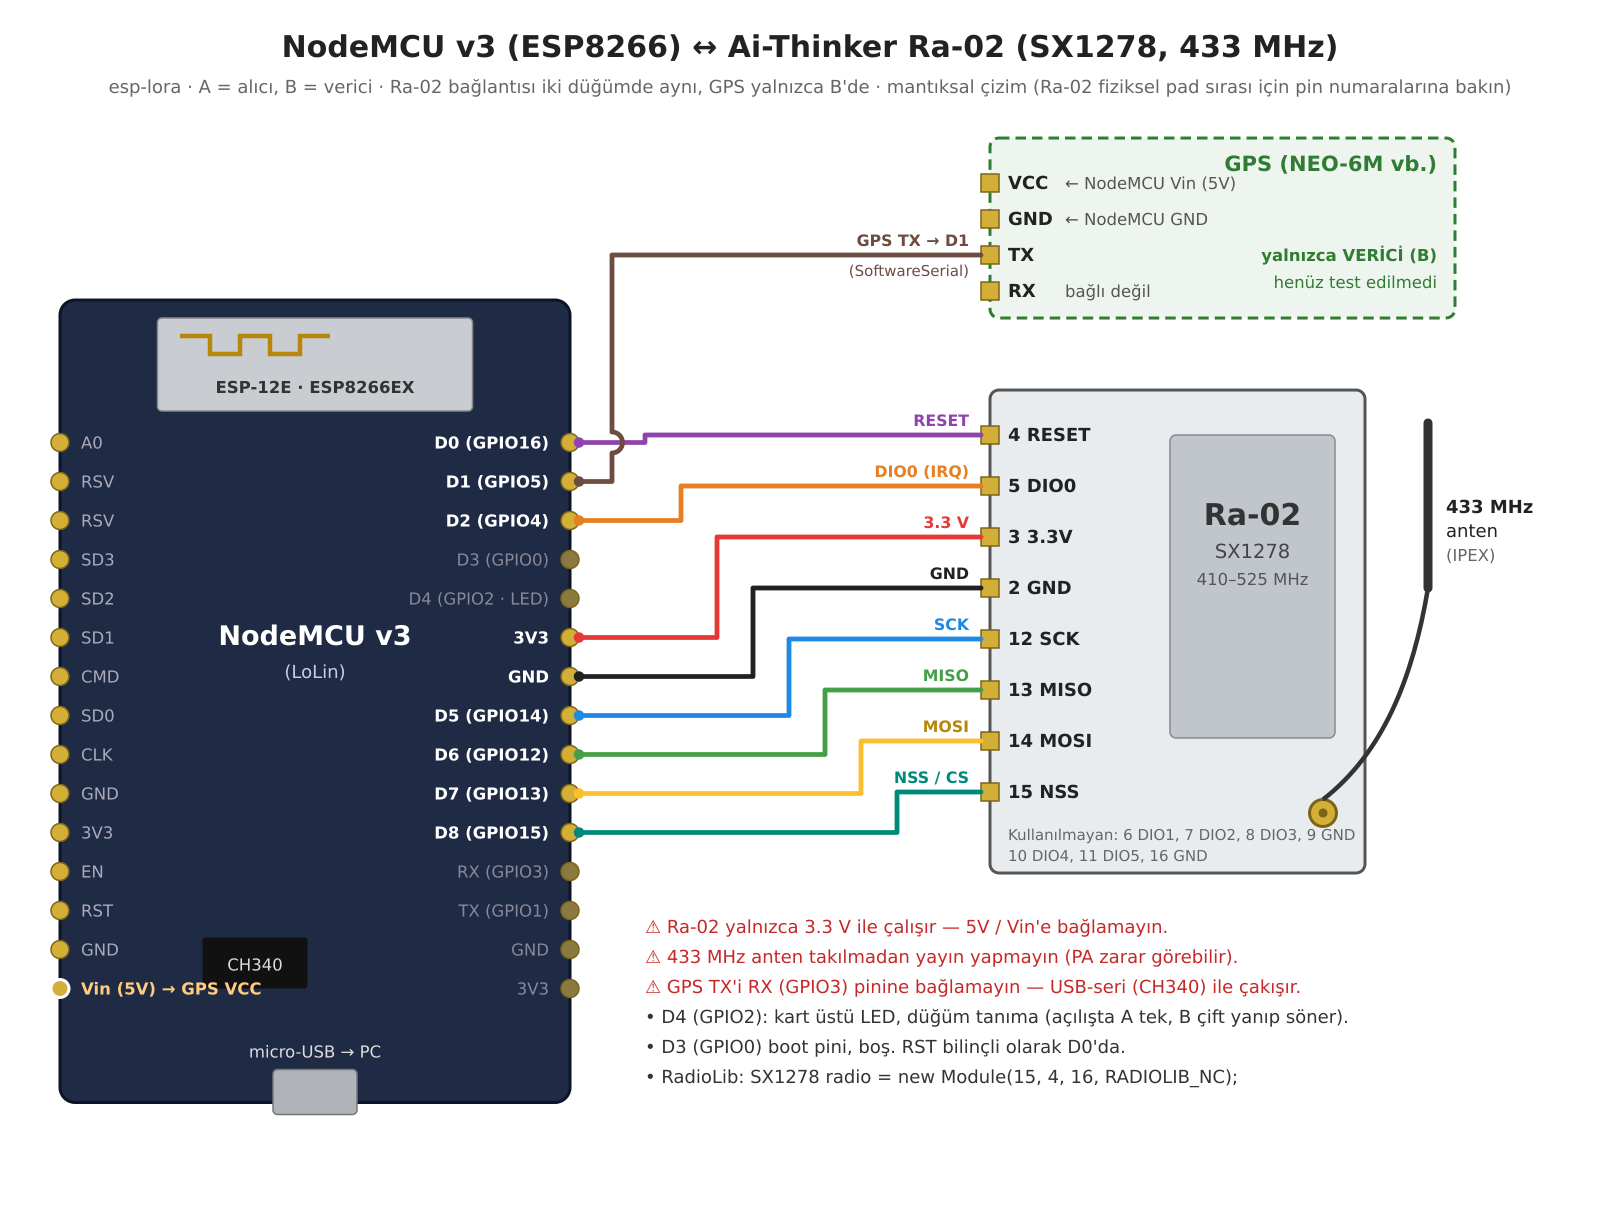
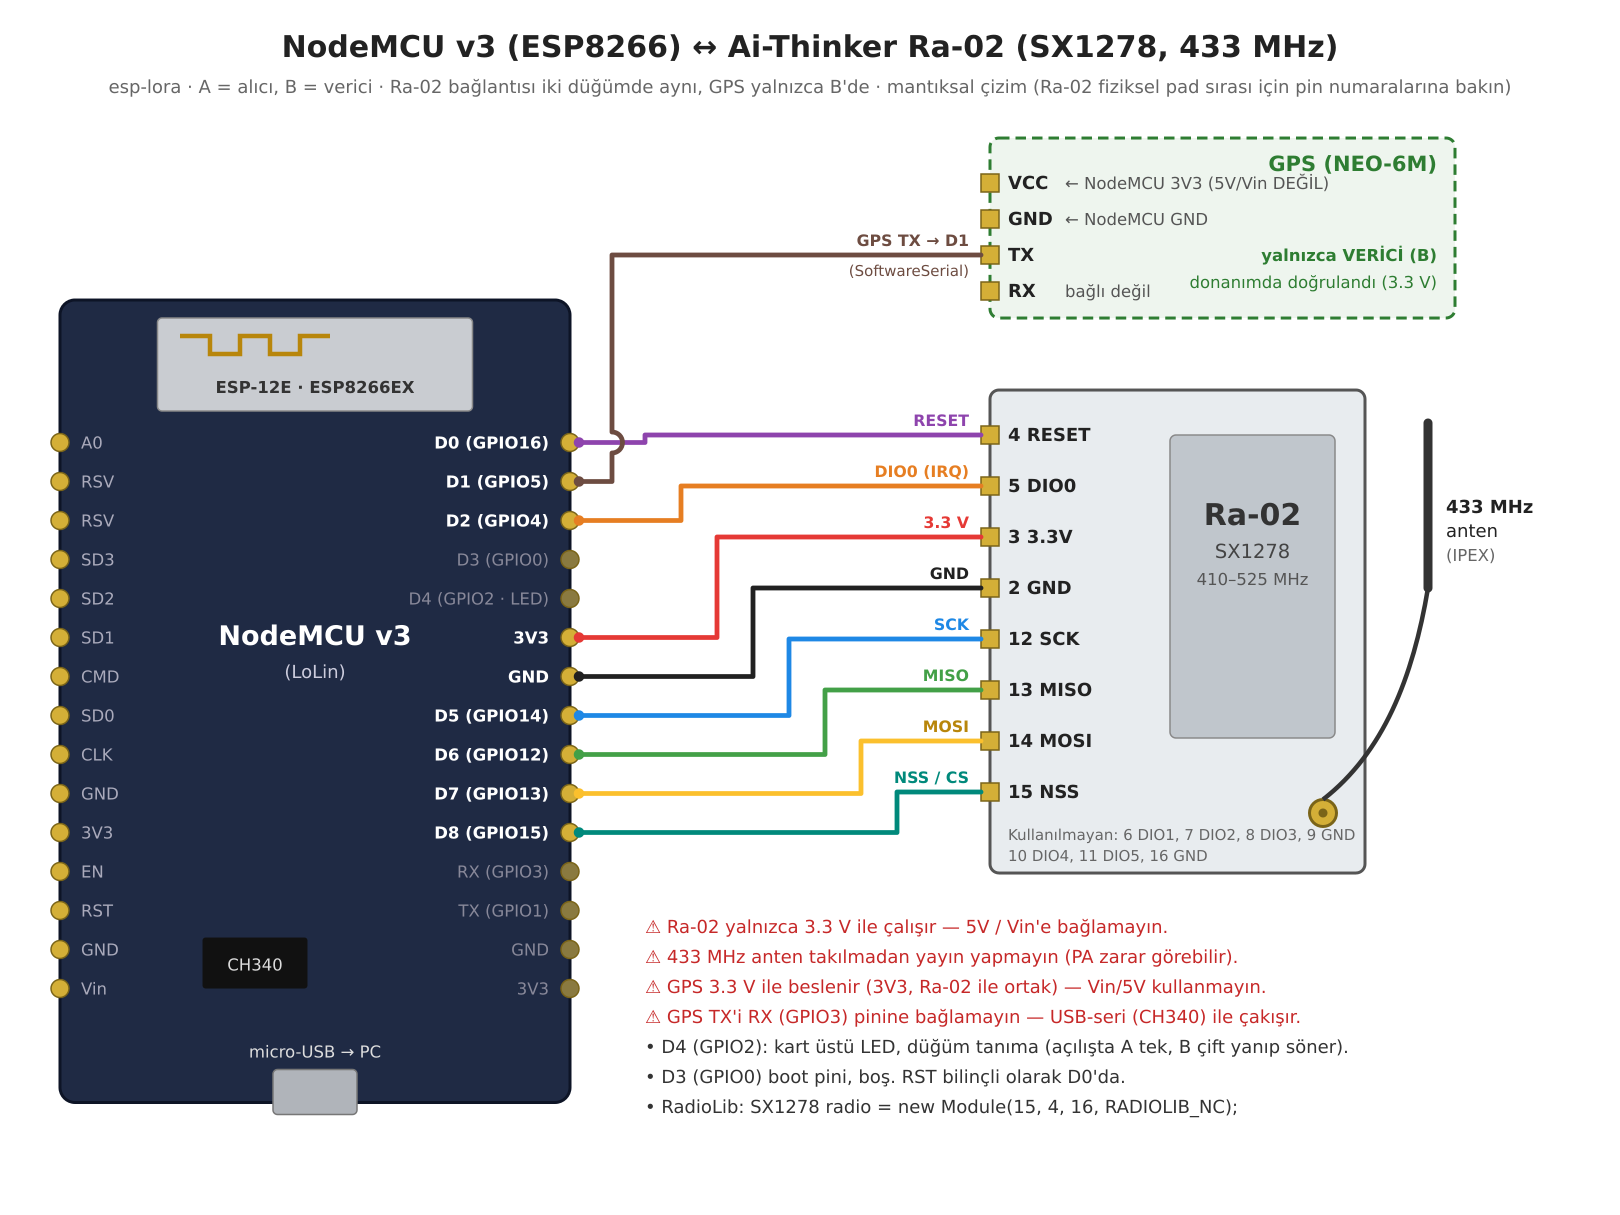
hardware: çizim güncellendi — GPS NEO-6M, VCC 3V3 (Vin değil), donanımda doğrulandı

diff --git a/tools/wiring_diagram.py b/tools/wiring_diagram.py
@@ -75,11 +75,7 @@ right_y = {}
 for i, p in enumerate(LEFT_PINS):
     y = PY0 + i * PITCH
     out.append(f'<circle cx="{BX}" cy="{y}" r="6" fill="#d4af37" stroke="#7a6418"/>')
-    if p == "Vin":
-        out.append(f'<circle cx="{BX}" cy="{y}" r="6" fill="#d4af37" stroke="#fff" stroke-width="2"/>')
-        out.append(text(BX + 14, y + 4, "Vin (5V) → GPS VCC", 11, weight="bold", fill="#ffcc80"))
-    else:
-        out.append(text(BX + 14, y + 4, p, 11, fill="#aab"))
+    out.append(text(BX + 14, y + 4, p, 11, fill="#aab"))
 for i, p in enumerate(RIGHT_PINS):
     y = PY0 + i * PITCH
     # 3V3 ve GND'den yalnızca ilkini kullan
@@ -137,11 +133,11 @@ for i, (mp, rp, num, col, lbl) in enumerate(WIRES):
 GX, GY, GW, GH = MX, 92, MW + 60, 120
 GCOL = "#6d4c41"
 out.append(f'<rect x="{GX}" y="{GY}" width="{GW}" height="{GH}" rx="6" fill="#eef5ee" stroke="#2e7d32" stroke-width="2" stroke-dasharray="7 4"/>')
-out.append(text(GX + GW - 12, GY + 22, "GPS (NEO-6M vb.)", 14, "end", "bold", "#2e7d32"))
+out.append(text(GX + GW - 12, GY + 22, "GPS (NEO-6M)", 14, "end", "bold", "#2e7d32"))
 out.append(text(GX + GW - 12, GY + 82, "yalnızca VERİCİ (B)", 11, "end", "bold", "#2e7d32"))
-out.append(text(GX + GW - 12, GY + 100, "henüz test edilmedi", 11, "end", fill="#2e7d32"))
+out.append(text(GX + GW - 12, GY + 100, "donanımda doğrulandı (3.3 V)", 11, "end", fill="#2e7d32"))
 gp = {"VCC": GY + 30, "GND": GY + 54, "TX": GY + 78, "RX": GY + 102}
-notes_g = {"VCC": "← NodeMCU Vin (5V)", "GND": "← NodeMCU GND", "TX": "", "RX": "bağlı değil"}
+notes_g = {"VCC": "← NodeMCU 3V3 (5V/Vin DEĞİL)", "GND": "← NodeMCU GND", "TX": "", "RX": "bağlı değil"}
 for name, y in gp.items():
     out.append(f'<rect x="{GX-6}" y="{y-6}" width="12" height="12" fill="#d4af37" stroke="#7a6418"/>')
     out.append(text(GX + 12, y + 4, name, 12, weight="bold"))
@@ -160,6 +156,7 @@ ny = BY + BH + 2
 notes = [
     ("⚠ Ra-02 yalnızca 3.3 V ile çalışır — 5V / Vin'e bağlamayın.", "#c62828"),
     ("⚠ 433 MHz anten takılmadan yayın yapmayın (PA zarar görebilir).", "#c62828"),
+    ("⚠ GPS 3.3 V ile beslenir (3V3, Ra-02 ile ortak) — Vin/5V kullanmayın.", "#c62828"),
     ("⚠ GPS TX'i RX (GPIO3) pinine bağlamayın — USB-seri (CH340) ile çakışır.", "#c62828"),
     ("• D4 (GPIO2): kart üstü LED, düğüm tanıma (açılışta A tek, B çift yanıp söner).", "#333"),
     ("• D3 (GPIO0) boot pini, boş. RST bilinçli olarak D0'da.", "#333"),

diff --git a/hardware/README.md b/hardware/README.md
@@ -1,3 +1,6 @@
 # Donanım
 
-Şemalar, pin haritaları ve datasheet linkleri. Detaylar wiki'deki **Donanım** sayfasında.
+Bağlantı çizimi (`nodemcu-v3-ra02-wiring.svg/png`, üretici: `tools/wiring_diagram.py`). Pin tabloları ve gerekçeler wiki'deki **Donanım** sayfasında.
+
+- A ve B: NodeMCU v3 (ESP8266) + Ai-Thinker Ra-02 (SX1278, 433 MHz) — NSS D8, DIO0 D2, RESET D0, SPI D5/D6/D7, 3V3
+- Yalnızca B: NEO-6M GPS — VCC **3V3** (Vin/5V değil), GND, GPS TX → D1
